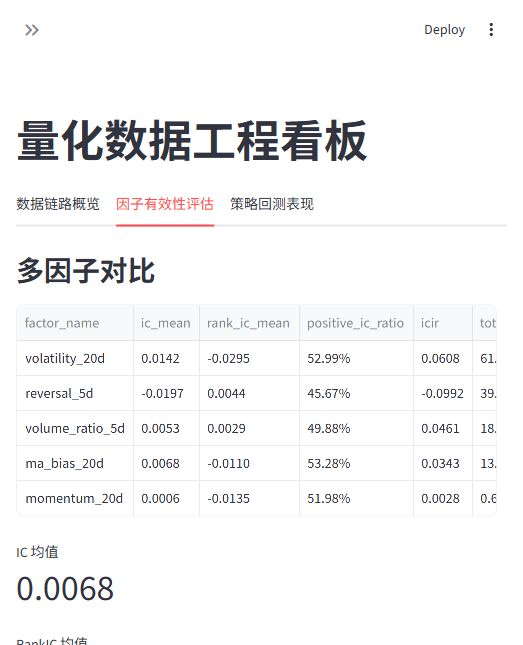
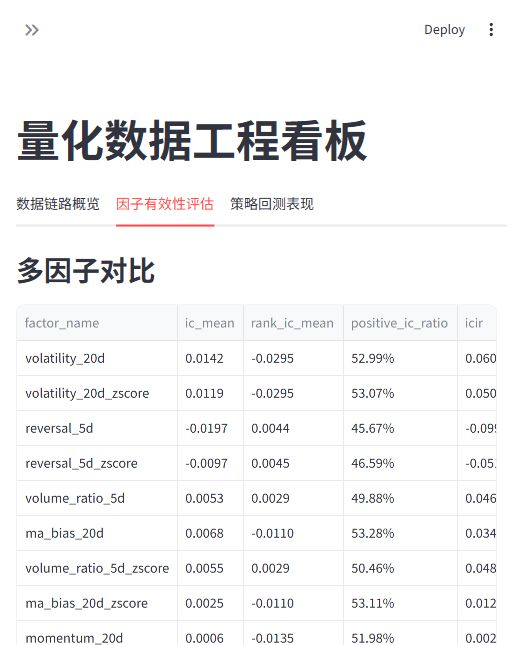
Add factor preprocessing

diff --git a/src/quant_data/cli.py b/src/quant_data/cli.py
@@ -11,6 +11,7 @@ from quant_data.evaluation.factor import evaluate_factor
 from quant_data.evaluation.stability import write_stability_reports
 from quant_data.factors.baseline import compute_baseline_factors
 from quant_data.factors.baseline import FACTOR_COLUMNS
+from quant_data.factors.baseline import ZSCORE_FACTOR_COLUMNS
 from quant_data.factors.sentiment import compute_market_sentiment
 from quant_data.factors.sentiment import join_market_sentiment
 from quant_data.ingestion.akshare_a_share import ingest_stock_daily
@@ -164,7 +165,7 @@ def run_backtest(
 
 def _parse_factor_names(value: str | None) -> list[str]:
     if not value:
-        return list(FACTOR_COLUMNS)
+        return [*FACTOR_COLUMNS, *ZSCORE_FACTOR_COLUMNS]
     return [factor.strip() for factor in value.split(",") if factor.strip()]
 
 
@@ -275,13 +276,13 @@ def build_parser() -> argparse.ArgumentParser:
 
     evaluate = subparsers.add_parser("evaluate")
     add_common(evaluate)
-    evaluate.add_argument("--factor-name", default="momentum_20d")
+    evaluate.add_argument("--factor-name", default="momentum_20d_zscore")
     evaluate.add_argument("--horizon", type=int, default=5)
     evaluate.add_argument("--groups", type=int, default=5)
 
     backtest = subparsers.add_parser("backtest")
     add_common(backtest)
-    backtest.add_argument("--factor-name", default="momentum_20d")
+    backtest.add_argument("--factor-name", default="momentum_20d_zscore")
     backtest.add_argument("--top-quantile", type=float, default=0.1)
     backtest.add_argument("--rebalance-interval", type=int, default=20)
     backtest.add_argument("--transaction-cost", type=float, default=0.001)
@@ -315,7 +316,7 @@ def build_parser() -> argparse.ArgumentParser:
 
     load_clickhouse = subparsers.add_parser("load-clickhouse")
     add_common(load_clickhouse)
-    load_clickhouse.add_argument("--factor-name", default="momentum_20d")
+    load_clickhouse.add_argument("--factor-name", default="momentum_20d_zscore")
     load_clickhouse.add_argument("--host", default="127.0.0.1")
     load_clickhouse.add_argument("--port", type=int, default=8123)
     load_clickhouse.add_argument("--username", default="default")
@@ -325,7 +326,7 @@ def build_parser() -> argparse.ArgumentParser:
     run_all = subparsers.add_parser("run-all")
     run_all.add_argument("--input", type=Path, required=True)
     add_common(run_all)
-    run_all.add_argument("--factor-name", default="momentum_20d")
+    run_all.add_argument("--factor-name", default="momentum_20d_zscore")
     run_all.add_argument("--horizon", type=int, default=5)
     run_all.add_argument("--groups", type=int, default=5)
     run_all.add_argument("--top-quantile", type=float, default=0.1)

diff --git a/src/quant_data/factors/preprocessing.py b/src/quant_data/factors/preprocessing.py
@@ -1,0 +1,57 @@
+import pandas as pd
+
+
+def winsorize_cross_section(
+    frame: pd.DataFrame,
+    factor_columns: list[str],
+    lower_quantile: float = 0.01,
+    upper_quantile: float = 0.99,
+) -> pd.DataFrame:
+    if not 0 <= lower_quantile < upper_quantile <= 1:
+        raise ValueError("lower_quantile and upper_quantile must satisfy 0 <= lower < upper <= 1")
+    if "trade_date" not in frame.columns:
+        raise ValueError("Missing required column: trade_date")
+
+    result = frame.copy()
+    result["trade_date"] = pd.to_datetime(result["trade_date"]).astype("datetime64[ns]")
+    grouped = result.groupby("trade_date")
+    for column in factor_columns:
+        if column not in result.columns:
+            raise ValueError(f"Missing factor column: {column}")
+        lower = grouped[column].transform(lambda series: series.quantile(lower_quantile))
+        upper = grouped[column].transform(lambda series: series.quantile(upper_quantile))
+        result[f"{column}_winsorized"] = result[column].clip(lower=lower, upper=upper)
+    return result
+
+
+def zscore_cross_section(
+    frame: pd.DataFrame,
+    factor_columns: list[str],
+) -> pd.DataFrame:
+    if "trade_date" not in frame.columns:
+        raise ValueError("Missing required column: trade_date")
+
+    result = frame.copy()
+    result["trade_date"] = pd.to_datetime(result["trade_date"]).astype("datetime64[ns]")
+    grouped = result.groupby("trade_date")
+    for column in factor_columns:
+        if column not in result.columns:
+            raise ValueError(f"Missing factor column: {column}")
+        mean = grouped[column].transform("mean")
+        std = grouped[column].transform("std")
+        result[f"{column}_zscore"] = (result[column] - mean) / std
+        result.loc[std.fillna(0) == 0, f"{column}_zscore"] = 0.0
+    return result
+
+
+def add_standardized_factors(
+    frame: pd.DataFrame,
+    factor_columns: list[str],
+    lower_quantile: float = 0.01,
+    upper_quantile: float = 0.99,
+) -> pd.DataFrame:
+    winsorized = winsorize_cross_section(frame, factor_columns, lower_quantile, upper_quantile)
+    winsorized_columns = [f"{column}_winsorized" for column in factor_columns]
+    result = zscore_cross_section(winsorized, winsorized_columns)
+    rename_map = {f"{column}_winsorized_zscore": f"{column}_zscore" for column in factor_columns}
+    return result.rename(columns=rename_map)

diff --git a/tests/test_factors_preprocessing.py b/tests/test_factors_preprocessing.py
@@ -1,0 +1,48 @@
+import pandas as pd
+import pytest
+
+from quant_data.factors.preprocessing import add_standardized_factors
+from quant_data.factors.preprocessing import winsorize_cross_section
+from quant_data.factors.preprocessing import zscore_cross_section
+
+
+def make_cross_section_frame() -> pd.DataFrame:
+    return pd.DataFrame(
+        [
+            {"trade_date": "2024-01-02", "symbol": "000001.SZ", "factor": 1.0},
+            {"trade_date": "2024-01-02", "symbol": "000002.SZ", "factor": 2.0},
+            {"trade_date": "2024-01-02", "symbol": "600000.SH", "factor": 3.0},
+            {"trade_date": "2024-01-02", "symbol": "600001.SH", "factor": 100.0},
+            {"trade_date": "2024-01-03", "symbol": "000001.SZ", "factor": 5.0},
+            {"trade_date": "2024-01-03", "symbol": "000002.SZ", "factor": 5.0},
+        ]
+    )
+
+
+def test_winsorize_cross_section_clips_by_trade_date():
+    result = winsorize_cross_section(make_cross_section_frame(), ["factor"], lower_quantile=0.25, upper_quantile=0.75)
+    day = result[result["trade_date"] == pd.Timestamp("2024-01-02")]
+
+    assert day["factor_winsorized"].min() >= 1.75
+    assert day["factor_winsorized"].max() <= 27.25
+
+
+def test_zscore_cross_section_standardizes_each_trade_date():
+    result = zscore_cross_section(make_cross_section_frame(), ["factor"])
+    day = result[result["trade_date"] == pd.Timestamp("2024-01-02")]
+    constant_day = result[result["trade_date"] == pd.Timestamp("2024-01-03")]
+
+    assert round(day["factor_zscore"].mean(), 6) == 0.0
+    assert constant_day["factor_zscore"].tolist() == [0.0, 0.0]
+
+
+def test_add_standardized_factors_adds_winsorized_and_zscore_columns():
+    result = add_standardized_factors(make_cross_section_frame(), ["factor"], lower_quantile=0.25, upper_quantile=0.75)
+
+    assert "factor_winsorized" in result.columns
+    assert "factor_zscore" in result.columns
+
+
+def test_winsorize_cross_section_rejects_invalid_quantiles():
+    with pytest.raises(ValueError, match="lower_quantile"):
+        winsorize_cross_section(make_cross_section_frame(), ["factor"], lower_quantile=0.8, upper_quantile=0.2)

diff --git a/tests/test_factors_baseline.py b/tests/test_factors_baseline.py
@@ -1,6 +1,6 @@
 import pandas as pd
 
-from quant_data.factors.baseline import FACTOR_COLUMNS, compute_baseline_factors
+from quant_data.factors.baseline import ALL_FACTOR_COLUMNS, FACTOR_COLUMNS, ZSCORE_FACTOR_COLUMNS, compute_baseline_factors
 
 
 def make_factor_frame() -> pd.DataFrame:
@@ -31,10 +31,12 @@ def make_factor_frame() -> pd.DataFrame:
 def test_compute_baseline_factors_returns_expected_columns_and_sorting():
     result = compute_baseline_factors(make_factor_frame())
 
-    assert result.columns.tolist() == ["trade_date", "symbol", *FACTOR_COLUMNS]
+    assert result.columns.tolist() == ["trade_date", "symbol", *ALL_FACTOR_COLUMNS]
     assert result[["symbol", "trade_date"]].equals(
         result[["symbol", "trade_date"]].sort_values(["symbol", "trade_date"]).reset_index(drop=True)
     )
+    for column in ZSCORE_FACTOR_COLUMNS:
+        assert column in result.columns
 
 
 def test_compute_baseline_factors_calculates_twenty_day_momentum_per_symbol():

diff --git a/src/quant_data/factors/baseline.py b/src/quant_data/factors/baseline.py
@@ -1,5 +1,7 @@
 import pandas as pd
 
+from quant_data.factors.preprocessing import add_standardized_factors
+
 FACTOR_COLUMNS = [
     "momentum_20d",
     "reversal_5d",
@@ -7,6 +9,9 @@ FACTOR_COLUMNS = [
     "volume_ratio_5d",
     "ma_bias_20d",
 ]
+WINSORIZED_FACTOR_COLUMNS = [f"{column}_winsorized" for column in FACTOR_COLUMNS]
+ZSCORE_FACTOR_COLUMNS = [f"{column}_zscore" for column in FACTOR_COLUMNS]
+ALL_FACTOR_COLUMNS = [*FACTOR_COLUMNS, *WINSORIZED_FACTOR_COLUMNS, *ZSCORE_FACTOR_COLUMNS]
 
 REQUIRED_COLUMNS = {"trade_date", "symbol", "close", "volume", "return_1d"}
 
@@ -38,4 +43,5 @@ def compute_baseline_factors(frame: pd.DataFrame) -> pd.DataFrame:
         lambda series: series.rolling(window=20, min_periods=20).mean()
     ) - 1
 
-    return result[["trade_date", "symbol", *FACTOR_COLUMNS]]
+    result = add_standardized_factors(result, FACTOR_COLUMNS)
+    return result[["trade_date", "symbol", *ALL_FACTOR_COLUMNS]]

diff --git a/docs/data_dictionary.zh-CN.md b/docs/data_dictionary.zh-CN.md
@@ -167,6 +167,8 @@
 | `volatility_20d` | 20 日波动率因子 | 1 日收益率的 20 日滚动标准差 |
 | `volume_ratio_5d` | 5 日量比因子 | `volume / rolling_mean(volume, 5)` |
 | `ma_bias_20d` | 20 日均线偏离因子 | `close / rolling_mean(close, 20) - 1` |
+| `<factor>_winsorized` | 因子去极值结果 | 按交易日截面做 1% / 99% 分位截断 |
+| `<factor>_zscore` | 因子标准化结果 | 对去极值后的因子按交易日截面计算 z-score |
 | `market_up_ratio` | 市场上涨股票占比，按日期从市场情绪表合并 | `return_1d > 0` 股票数 / 当日股票数 |
 | `market_strong_ratio` | 市场强势股票占比 | `return_1d > 3%` 股票数 / 当日股票数 |
 | `market_weak_ratio` | 市场弱势股票占比 | `return_1d < -3%` 股票数 / 当日股票数 |
@@ -174,7 +176,7 @@
 | `profit_effect` | 赚钱效应 | 上涨股票平均收益 - 下跌股票平均跌幅绝对值 |
 | `market_sentiment_score` | 综合市场情绪分数 | 多个子因子的 60 日滚动 z-score 合成 |
 
-说明：个股量价因子的滚动计算都按 `symbol` 分组，避免不同股票之间的数据串线；市场情绪字段是市场级别状态变量，同一天对所有股票相同。
+说明：个股量价因子的滚动计算都按 `symbol` 分组，避免不同股票之间的数据串线；去极值和 z-score 按 `trade_date` 做横截面处理，避免极端值和量纲差异影响 IC、分组收益和回测结果；市场情绪字段是市场级别状态变量，同一天对所有股票相同。
 
 ## ADS 市场情绪表
 

diff --git a/README.md b/README.md
@@ -55,6 +55,7 @@ Streamlit dashboard
   - `volume_ratio_5d`
   - `ma_bias_20d`
 - Market sentiment factors such as market breadth, trading activity, profit effect, and rolling sentiment score.
+- Cross-sectional factor preprocessing with 1% / 99% winsorization and daily z-score standardization.
 - Multi-factor evaluation with IC, RankIC, positive IC ratio, ICIR, grouped returns, and long-short return.
 - Yearly and rolling-window stability reports for factor IC, RankIC, excess return, drawdown, Sharpe, and turnover.
 - Factor backtest with next-trading-day execution, rebalance interval, transaction costs, slippage, stamp tax, suspension handling, and limit-up / limit-down constraints.
